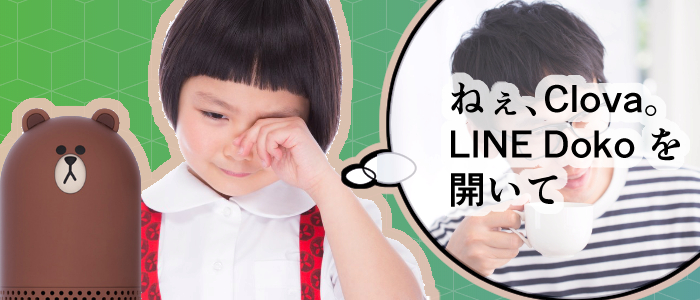
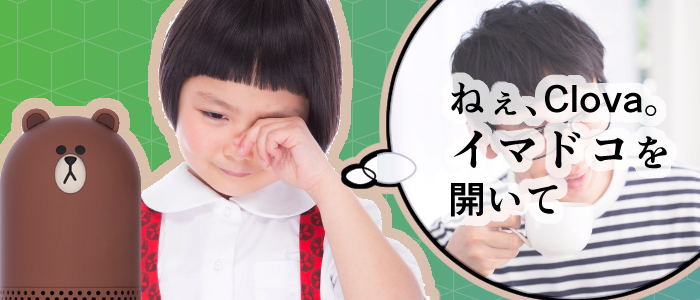
LINE Doko ってサービス名、冷静に考えて名前に「LINE」使ってるのまずそうだよねって思ってサービス名変えた

Changed region(s): [[0.63, 0.39, 0.99, 0.75]]

diff --git a/docs/index.html b/docs/index.html
@@ -1,5 +1,5 @@
 <!DOCTYPE html>
-<html lang="en">
+<html lang="ja">
 
 <head>
 
@@ -8,7 +8,7 @@
   <meta name="description" content="">
   <meta name="author" content="">
 
-  <title>LINE Doko - 大切な家族が今どこにいるか、位置情報を教えてくれる LINE Clova スキル</title>
+  <title>イマドコ - 大切な家族が今どこにいるか教えてくれる LINE Clova スキル</title>
 
   <!-- Bootstrap core CSS -->
   <link href="vendor/bootstrap/css/bootstrap.min.css" rel="stylesheet">
@@ -33,7 +33,7 @@
   <!-- Navigation -->
   <nav class="navbar navbar-expand-lg navbar-light fixed-top" id="mainNav">
     <div class="container">
-      <a class="navbar-brand js-scroll-trigger" href="#page-top">LINE Doko</a>
+      <a class="navbar-brand js-scroll-trigger" href="#page-top">家族の Clova スキル『イマドコ』</a>
       <button class="navbar-toggler navbar-toggler-right" type="button" data-toggle="collapse" data-target="#navbarResponsive"
         aria-controls="navbarResponsive" aria-expanded="false" aria-label="Toggle navigation">
         Menu
@@ -63,7 +63,7 @@
       <div class="row h-100">
         <div class="col-lg-7 my-auto">
           <div class="header-content mx-auto">
-            <h1 class="mb-5">LINE Doko は、<br />貴方の大切な家族が<br />今どこにいるか教えてくれる<br />LINE Clova スキルです</h1>
+            <h1 class="mb-5">『イマドコ』は、<br />貴方の大切な家族が<br />今どこにいるか教えてくれる<br />LINE Clova スキルです</h1>
             <a href="#download" class="btn btn-outline btn-xl js-scroll-trigger">無料で始める</a>
           </div>
         </div>
@@ -108,15 +108,15 @@
   <section class="bg-light">
     <div class="container" id="howtouse">
       <!-- Page Heading -->
-      <h1 class="my-4">LINE Doko の使い方</h1>
+      <h1 class="my-4">スキル『イマドコ』の使い方</h1>
       <!-- Project  -->
       <div class="row">
         <div class="col-md-7">
           <img class="img-fluid rounded mb-3 mb-md-0 border border-dark" src="img/flow1.jpg" alt="">
         </div>
         <div class="col-md-5">
-          <h3>「ねぇ、Clova。LINE Doko を開いて」</h3>
-          <p>お父さんやお母さん、旦那さんなど、大切なご家族に会いたくなったら。寂しい時、LINE Doko を起動しましょう</p>
+          <h3>「ねぇ、Clova。イマドコを開いて」</h3>
+          <p>お父さんやお母さん、旦那さんなど、大切なご家族に会いたくなったら。寂しい時、『イマドコ』を起動しましょう</p>
         </div>
       </div>
       <!-- /.row -->
@@ -129,7 +129,7 @@
         </div>
         <div class="col-md-5">
           <h3>場所と伝言を伝えてくれる</h3>
-          <p>LINE Doko が Clova から起動されると、スマホから登録された位置情報と伝言が伝えられます。</p>
+          <p>『イマドコ』が Clova から起動されると、スマホから登録された位置情報と伝言が伝えられます。</p>
         </div>
       </div>
       <!-- /.row -->
@@ -142,7 +142,7 @@
         </div>
         <div class="col-md-5">
           <h3>位置情報や伝言の登録はスマホから簡単</h3>
-          <p>LINE Doko スキル連動の LINE bot から、簡単に位置情報を送信できます。</p>
+          <p>『イマドコ』スキル連動の LINE bot から、簡単に位置情報を送信できます。</p>
         </div>
       </div>
       <!-- /.row -->
@@ -157,7 +157,7 @@
           <h3>登録された情報が古い場合は、情報の更新を促す</h3>
           <p>登録された位置情報が6時間前の場合、Clova は古い情報を読み上げてから、「どこにいるかもう一度 LINE で聞いてみます」と言い、いったん終了します。</p>
           <p>そして、Clova のオーナー(この場合はパパ)の LINE に通知を送り「パパさんが今どこにいるか気にしています」と位置情報の入力を求めます。</p>
-          <p>次にまた LINE Doko が起動された時に、この新しい位置情報が読み上げられます</p>
+          <p>次にまた『イマドコ』が起動された時に、この新しい位置情報が読み上げられます</p>
         </div>
       </div>
       <!-- /.row -->
@@ -176,9 +176,9 @@
           </ul>
           <p>以上に当てはまる人は、ぜひ始めてみましょう</p>
           <ol>
-            <li>【Clova】LINE Clova でスキル「LINE Doko」をインストール</li>
-            <li>【スマホの LINE】LINE bot「LINE Deko」を友達登録します。（QRコードは下)</li>
-            <li>【スマホの LINE】その友達登録した bot の指示内容に従い必要項目(パパママなど呼ばれ方)を埋めたら準備は終わり！</li>
+            <li>【スマホの LINE】LINE bot『イマドコ』を友達登録します。（QRコードは下)</li>
+            <li>【スマホの LINE】その友達登録した bot の中で、必要項目(パパママなど呼ばれ方)を入れたら準備は終わり！</li>
+            <li>【Clova】おうちの Clova に「ねぇ Clova、イマドコを開いて」と話しかけましょう</li>
           </ol>
           <p>LINE bot の友達登録QRコード</p>
         </div>
@@ -189,7 +189,7 @@
   <section class="features" id="features">
     <div class="container">
       <div class="section-heading text-center">
-        <h2>LINE Doko で出来ること</h2>
+        <h2>『イマドコ』で出来ること</h2>
         <p class="text-muted">あああああああああああああああああああ</p>
         <hr>
       </div>
@@ -255,7 +255,7 @@
     <div class="container">
       <!-- Introduction Row -->
       <h1 class="my-4">私たちについて</h1>
-      <p>私たちは、チーム「<a href="https://github.com/MangaClova" target="_blank">Manga Clova</a>」です</p>
+      <p>私たちは、「<a href="https://github.com/MangaClova" target="_blank">Team Manga Clova</a>」です</p>
 
       <!-- Team Members Row -->
       <div class="row">
@@ -289,7 +289,7 @@
 
   <footer>
     <div class="container">
-      <p>&copy; Manga Clova team 2018.</p>
+      <p>&copy; Team Manga Clova 2018.</p>
     </div>
   </footer>
 

diff --git a/docs/css/main.css b/docs/css/main.css
@@ -72,7 +72,7 @@ section h2 {
 }
 
 #mainNav .navbar-brand {
-  color: #00be00;
+  color: #fcbd20;
   font-family: 'Catamaran', 'Helvetica', 'Arial', 'sans-serif';
   font-weight: 200;
   letter-spacing: 1px;
